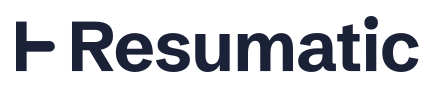
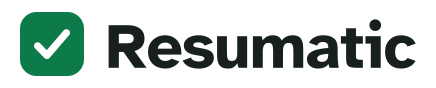
Lockups: the connect sign-in page and the invite email draw the plain identity
The page that asks a signed-out person to sign in before connecting an
app now shows the lockup as inline SVG drawn with fill attributes, so its
policy (default-src 'none') is unchanged, and its link reads "Sign in
with Google".

The invite email's PNG is redrawn by scripts/draw-email-lockup.mjs from
Lockup.tsx's wordmark, the favicon's tile and check, and the light theme's
colours, on a white ground of its own, at 436 x 88. Its test reads the
PNG's header and the source files and never loads sharp, and holds the
connect page's inline lockup to the same drawing.

diff --git a/src/worker/mcp.ts b/src/worker/mcp.ts
@@ -89,6 +89,14 @@ const cookie = (request: Request, name: string) =>
     .map((s) => s.trim())
     .find((s) => s.startsWith(`${name}=`))
     ?.slice(name.length + 1);
+/**
+ * The lockup for the connect sign-in page: the green tile with its check, then the name in ink, as
+ * inline SVG drawn with fill and stroke attributes. The page's policy (`default-src 'none'`) loads
+ * no image, style or font, and attributes need none. The tile and check are public/favicon.svg's,
+ * the colours tokens.css's light --brand, --on-brand and --ink, and the name is the wordmark in
+ * src/web/components/Lockup.tsx; scripts/email-lockup.test.mjs holds them together.
+ */
+const SIGN_IN_LOCKUP = `<svg role="img" aria-label="Resumatic" focusable="false" width="218" height="44" viewBox="0 0 218 44"><rect x="10" y="6" width="32" height="32" rx="8.32" fill="#0c7a49"/><path transform="translate(10 6) scale(1.3333)" fill="none" stroke="#ffffff" stroke-width="2.7" stroke-linecap="round" stroke-linejoin="round" d="M6.6 12.7l3.5 3.6 7.3-8.5"/><path transform="translate(54.31 9.69) scale(0.3187) translate(-5.56 9.16)" fill="#17201b" d="M5.56 66.8V0H36.28Q43.26 0 49.03 2.15Q54.8 4.3 58.31 8.91Q61.82 13.52 61.82 20.94Q61.82 29.14 57.4 33.94Q52.98 38.74 46.12 40.48L65.06 66.8H46.3L28.88 41.9H21.6V66.8ZM21.6 28.3H35.44Q38.2 28.3 40.35 27.56Q42.5 26.82 43.73 25.2Q44.96 23.58 44.96 20.94Q44.96 18.3 43.73 16.68Q42.5 15.06 40.35 14.33Q38.2 13.6 35.44 13.6H21.6ZM94.7 68Q86.68 68 80.51 64.86Q74.34 61.72 70.87 55.82Q67.4 49.92 67.4 41.68Q67.4 33.78 71.06 27.98Q74.72 22.18 80.79 18.98Q86.86 15.78 94.08 15.78Q100.2 15.78 105.11 17.98Q110.02 20.18 113.43 24.23Q116.84 28.28 118.45 33.84Q120.06 39.4 119.56 46.06H82.52Q83.12 48.68 84.25 50.54Q85.38 52.4 86.95 53.63Q88.52 54.86 90.4 55.45Q92.28 56.04 94.28 56.04Q97.76 56.04 100.3 55.01Q102.84 53.98 104.22 52.38L116.48 56.86Q112.54 62.6 106.65 65.3Q100.76 68 94.7 68ZM82.42 36.78H105.28Q105.06 33.6 103.58 31.49Q102.1 29.38 99.77 28.31Q97.44 27.24 94.5 27.24Q91.72 27.24 89.2 28.18Q86.68 29.12 84.94 31.19Q83.2 33.26 82.42 36.78ZM146.6 68.1Q140.64 68.1 135.66 66.6Q130.68 65.1 127.12 62.25Q123.56 59.4 121.74 55.4L134.82 50.62Q135.72 53.68 139.1 55.32Q142.48 56.96 146.8 56.96Q150.24 56.96 153.02 55.79Q155.8 54.62 155.8 52.26Q155.8 50.76 154.25 49.68Q152.7 48.6 148.42 47.9L139.82 46.38Q134.98 45.48 131.32 43.62Q127.66 41.76 125.61 38.8Q123.56 35.84 123.56 31.86Q123.56 26.6 126.79 23.03Q130.02 19.46 135.24 17.62Q140.46 15.78 146.5 15.78Q153.74 15.78 159.97 18.38Q166.2 20.98 169.12 27.32L156.04 32.1Q154.96 29.42 152.48 28.12Q150 26.82 146.22 26.82Q142.22 26.82 140.26 28Q138.3 29.18 138.3 31.04Q138.3 32.58 139.61 33.47Q140.92 34.36 144.2 34.94L153.22 36.56Q159.28 37.66 163.12 39.42Q166.96 41.18 168.79 44.03Q170.62 46.88 170.62 51.24Q170.62 56.86 167.36 60.62Q164.1 64.38 158.67 66.24Q153.24 68.1 146.6 68.1ZM192.98 68Q186.36 68 182.59 65.55Q178.82 63.1 177.27 58.39Q175.72 53.68 175.72 46.94V17.2H191.18V43.08Q191.18 46.58 191.52 49.56Q191.86 52.54 193.43 54.29Q195 56.04 198.68 56.04Q203.44 56.04 205.39 53.08Q207.34 50.12 207.34 43.26V17.2H222.88V66.8H209.44L207.34 59.8Q205.14 63.5 201.9 65.75Q198.66 68 192.98 68ZM231.96 66.8V17.2H245.54L247.42 23.76Q248.52 21.88 250.62 20.08Q252.72 18.28 255.72 17.03Q258.72 15.78 262.42 15.78Q268.34 15.78 271.88 17.87Q275.42 19.96 277.12 24.06Q280.02 19.96 284.48 17.87Q288.94 15.78 294.14 15.78Q300.56 15.78 304.17 18.18Q307.78 20.58 309.32 25.24Q310.86 29.9 310.86 36.64V66.8H295.4V40.5Q295.4 37 295.01 34.11Q294.62 31.22 293.05 29.48Q291.48 27.74 287.82 27.74Q283.24 27.74 281.19 30.96Q279.14 34.18 279.14 40.62V66.8H263.6V40.5Q263.6 37 263.26 34.11Q262.92 31.22 261.4 29.48Q259.88 27.74 256.32 27.74Q253.22 27.74 251.25 29.28Q249.28 30.82 248.35 33.75Q247.42 36.68 247.42 40.94V66.8ZM333.94 68Q329.16 68 325.24 66.2Q321.32 64.4 319.03 61.14Q316.74 57.88 316.74 53.4Q316.74 47.48 320.87 43.85Q325 40.22 332.53 38.26Q340.06 36.3 350.1 35.64V34.08Q350.1 29.92 347.82 28.08Q345.54 26.24 341.42 26.24Q338.38 26.24 336.04 27.69Q333.7 29.14 332.9 32.04L319.86 27.4Q322.28 22.42 328.06 19.1Q333.84 15.78 342.24 15.78Q353.08 15.78 358.98 20.49Q364.88 25.2 364.88 36.32V47.58Q364.88 50.84 365.08 54.51Q365.28 58.18 365.68 61.42Q366.08 64.66 366.58 66.8H352.2L350.42 60.82Q347.64 64.76 343.41 66.38Q339.18 68 333.94 68ZM339.66 57.46Q342.74 57.46 345.1 56.48Q347.46 55.5 348.78 53.08Q350.1 50.66 350.1 46.4V44.78Q341.58 45.36 337.17 47.05Q332.76 48.74 332.76 52.24Q332.76 54.6 334.71 56.03Q336.66 57.46 339.66 57.46ZM394.74 66.8Q388.58 66.8 384.94 65.74Q381.3 64.68 379.73 61.63Q378.16 58.58 378.16 52.74V28.98H369.96V17.2H378.16V4.8H393.62V17.2H404.42V28.98H393.62V48.64Q393.62 52.12 394.99 53.17Q396.36 54.22 400.06 54.22H404.42V66.8ZM416.88 66.8V28.88H408.52V17.2H432.44V66.8ZM423.88 9.04Q420.12 9.04 417.45 6.37Q414.78 3.7 414.78 -0.04Q414.78 -3.9 417.45 -6.53Q420.12 -9.16 423.86 -9.16Q427.72 -9.16 430.35 -6.52Q432.98 -3.88 432.98 -0.06Q432.98 3.7 430.34 6.37Q427.7 9.04 423.88 9.04ZM464.78 68Q456.54 68 450.87 64.7Q445.2 61.4 442.25 55.45Q439.3 49.5 439.3 41.68Q439.3 33.86 442.51 28.02Q445.72 22.18 451.47 18.98Q457.22 15.78 464.74 15.78Q469.02 15.78 473.3 16.97Q477.58 18.16 481.27 21.01Q484.96 23.86 487.28 28.84L474.4 33.52Q473.22 30.32 470.88 29.03Q468.54 27.74 465.7 27.74Q463.04 27.74 460.57 29.07Q458.1 30.4 456.57 33.46Q455.04 36.52 455.04 41.78Q455.04 47.14 456.62 50.26Q458.2 53.38 460.62 54.71Q463.04 56.04 465.7 56.04Q468.86 56.04 471.03 54.81Q473.2 53.58 474.5 51.4L487.06 55.96Q484.54 60.52 480.81 63.17Q477.08 65.82 472.92 66.91Q468.76 68 464.78 68Z"/></svg>`;
 const privateHeaders = {
   "cache-control": "no-store",
   "referrer-policy": "no-referrer",
@@ -277,7 +285,7 @@ async function authorize(
     if (!session || !who || !current) {
       const returnTo = `${new URL(request.url).pathname}${new URL(request.url).search}`;
       return new Response(
-        `<!doctype html><html lang="en"><meta charset="utf-8"><title>Sign in · Resumatic</title><main><h1>Sign in to connect an app</h1><p><a href="/auth/login?returnTo=${escapeHtml(encodeURIComponent(returnTo))}">Continue with Google</a></p></main></html>`,
+        `<!doctype html><html lang="en"><meta charset="utf-8"><title>Sign in · Resumatic</title><main><p>${SIGN_IN_LOCKUP}</p><h1>Sign in to connect an app</h1><p><a href="/auth/login?returnTo=${escapeHtml(encodeURIComponent(returnTo))}">Sign in with Google</a></p></main></html>`,
         {
           headers: {
             ...privateHeaders,

diff --git a/test/integration/mcp.test.ts b/test/integration/mcp.test.ts
@@ -457,3 +457,39 @@ describe("a connected app's fit preview", () => {
     await waitOnExecutionContext(f.ctx);
   });
 });
+
+describe("connecting an app while signed out", () => {
+  it("asks a signed-out person to sign in to connect an app, with the lockup inline and no style, script or image, under the same CSP", async () => {
+    const f = await fixture();
+    const bytes = new Uint8Array(await crypto.subtle.digest("SHA-256", new TextEncoder().encode(f.verifier)));
+    const challenge = btoa(String.fromCharCode(...bytes)).replaceAll("+", "-").replaceAll("/", "_").replace(/=+$/, "");
+    const parameters = new URLSearchParams({
+      client_id: f.client.client_id,
+      redirect_uri: "https://client.example.test/callback",
+      response_type: "code",
+      scope: "vault:read",
+      state: "client-state",
+      code_challenge: challenge,
+      code_challenge_method: "S256",
+      resource: "https://resumatic.test/mcp",
+    });
+    // No session cookie: the page asks them to sign in, and comes back here after.
+    const page = await f.call(`/oauth/authorize?${parameters}`);
+    expect(page.status).toBe(200);
+    expect(page.headers.get("content-security-policy")).toBe("default-src 'none'; form-action 'self'; frame-ancestors 'none'; base-uri 'none'");
+    expect(page.headers.get("cache-control")).toBe("no-store");
+    expect(page.headers.getSetCookie()).toEqual([]);
+    const html = await page.text();
+    expect(html).toContain("<h1>Sign in to connect an app</h1>");
+    const link = html.match(/<a href="([^"]+)">([^<]+)<\/a>/)!;
+    expect(link[2]).toBe("Sign in with Google");
+    expect(new URL(link[1]!, "https://resumatic.test").searchParams.get("returnTo")).toBe(`/oauth/authorize?${parameters}`);
+    // The lockup is drawn inline, named once, by attributes the policy needs nothing for.
+    const lockup = html.match(/<svg [^>]*>[\s\S]*?<\/svg>/)![0];
+    expect(lockup).toMatch(/^<svg role="img" aria-label="Resumatic" /);
+    expect(lockup).toContain('fill="#0c7a49"');
+    expect(lockup).toContain('d="M6.6 12.7l3.5 3.6 7.3-8.5"');
+    expect(html).not.toMatch(/<style|style=|<script|<img|<image|<link|url\(|https?:\/\/(?!resumatic\.test)/i);
+    await waitOnExecutionContext(f.ctx);
+  });
+});
